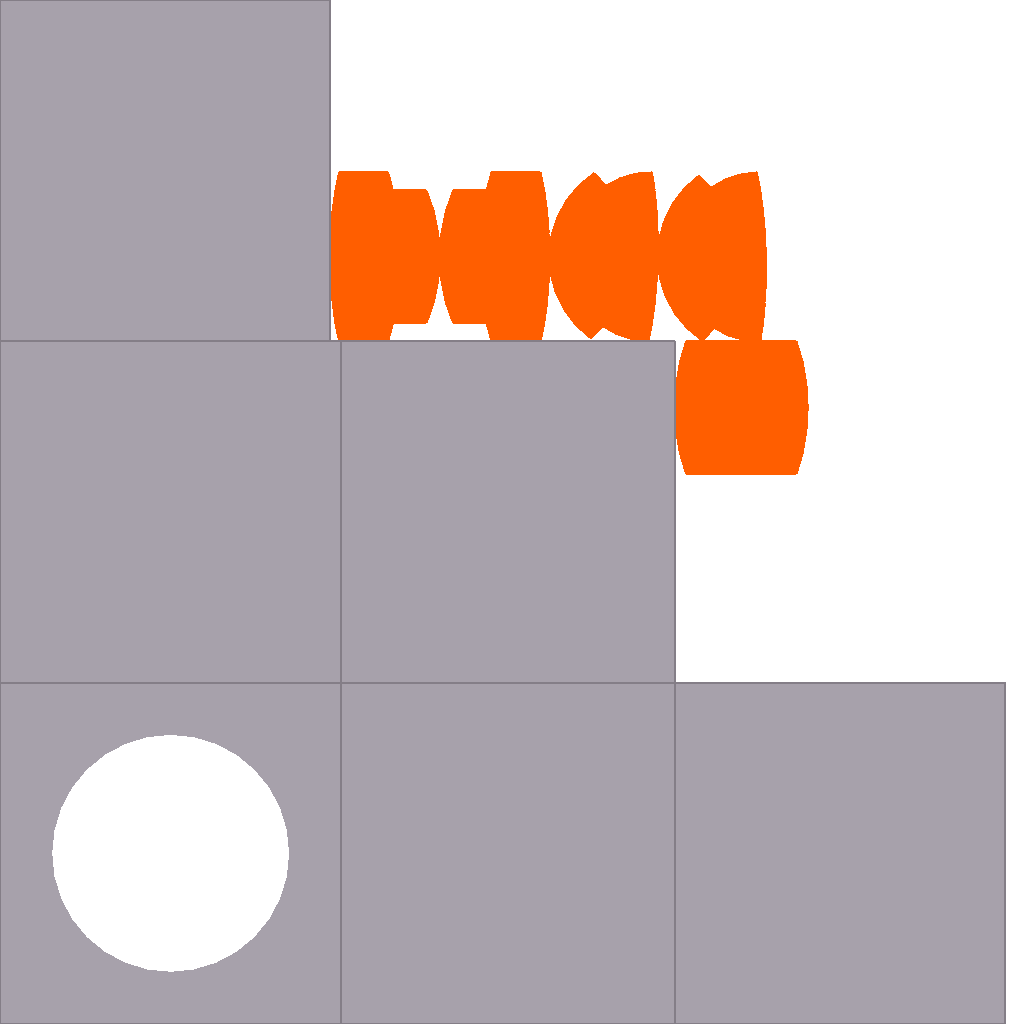
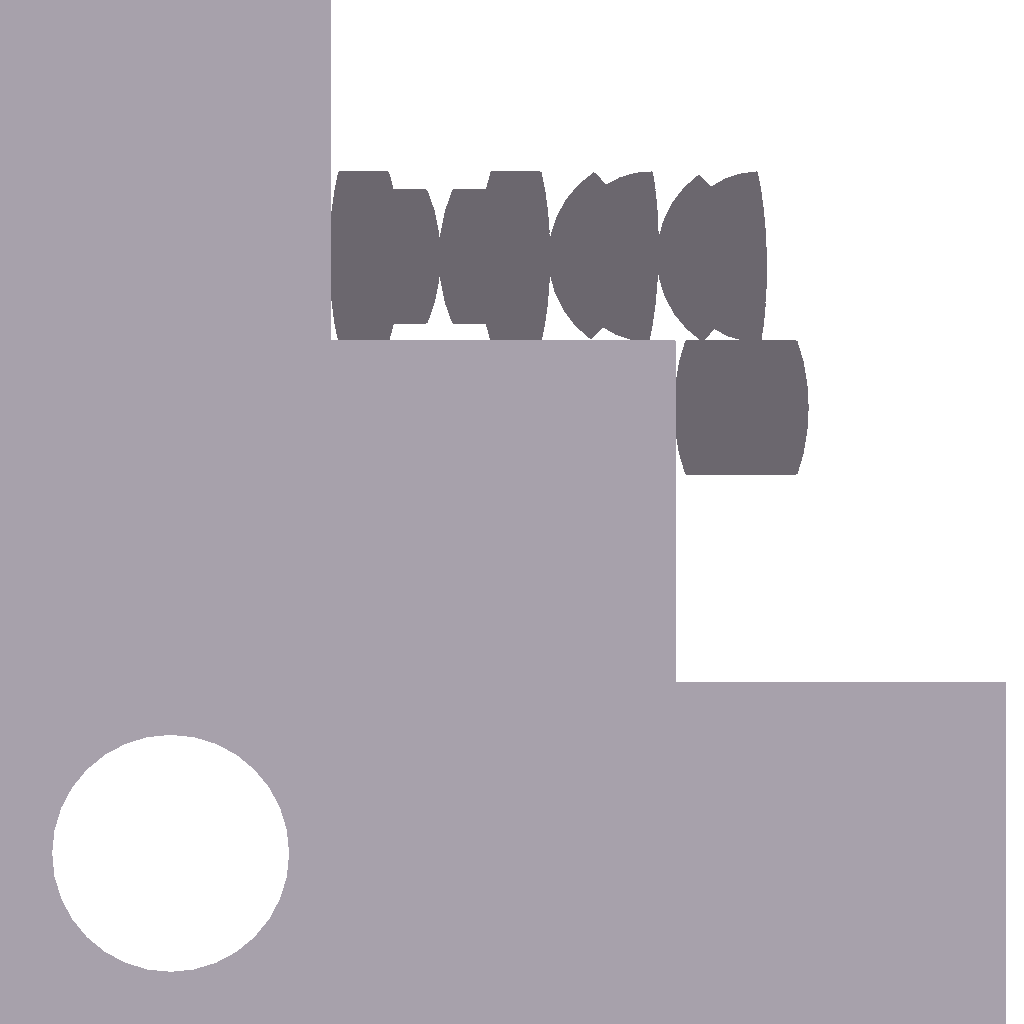
・ヒット時のカラーを変更できるように改良 ・ボスパーツのクラスを追加 ・ヒット時の処理を疑似的に追加 ・ファイル分け

Changed region(s): [[0.3125, 0.1562, 0.8125, 0.4688], [0.6562, 0.6562, 0.6875, 0.6875], [0.3125, 0.6562, 0.3438, 0.6875]]

diff --git a/GamePlay/GamePlay.cpp b/GamePlay/GamePlay.cpp
@@ -35,12 +35,22 @@ void GamePlay::Initialize()
 		return;
 	}
 
+	// スプライト
 	gameBG = Sprite::Create(TextureNumber::game_bg, { 0.0f,0.0f });
 
+	// パーティクル
+	bossHitParticle = ParticleManager::Create(dxCommon->GetDevice(), camera, 1, L"Resources/effect1.png");
+
+	// プレイヤー
 	player = Player::Create();
+
+	// スカイドーム
 	objSkydome = ObjObject::Create();
+
+	// ボス
 	boss = Boss::Create();
 	bossPartsRing = BossPartsRing::Create();
+	bossPartsSphere = BossPartsSphere::Create();
 	bossCore_1 = BossCore::Create();
 	bossCore_2 = BossCore::Create();
 	bossCore_3 = BossCore::Create();
@@ -60,51 +70,67 @@ void GamePlay::Initialize()
 	camera->SetUp({ 0, 1, 0 });
 	camera->SetDistance(20.0f);
 
+	// プレイヤー
 	player->SetPosition({ 0.0f,0.0f,0.0f });
 	player->SetRotation({ 0.0f, 0.0f, 0.0f });
 	player->SetScale({ 1.0f, 1.0f, 1.0f });
 
+	// ボスのベース
 	boss->SetPosition({ 0.0f,0.0f,0.0f });
 	boss->SetRotation({ 0.0f, 0.0f, 0.0f });
 	boss->SetScale({ 1.0f, 1.0f, 1.0f });
 
+	// ボスのリングパーツ
 	bossPartsRing->SetScale({ 4.0f, 4.0f, 4.0f });
 	bossPartsRing->SetParent(boss);
 
-	bossCore_1->SetPosition({ 0.0f , 0.0f, -1.3f });
-	bossCore_1->SetScale({ 0.2f, 0.2f, 0.2f });
-	bossCore_1->SetParent(bossPartsRing);
+	// ボスの球パーツ
+	bossPartsSphere->SetScale({ 4.2f, 4.2f, 4.2f });
+	bossPartsSphere->SetColor({ 0.2f, 0.2f, 0.2f, 1.0f });
+	bossPartsSphere->SetParent(boss);
 
-	bossCore_2->SetPosition({ 1.3f , 0.0f, 0.0f });
-	bossCore_2->SetScale({ 0.2f, 0.2f, 0.2f });
-	bossCore_2->SetParent(bossPartsRing);
-
-	bossCore_3->SetPosition({ 0.0f , 0.0f, 1.3f });
-	bossCore_3->SetScale({ 0.2f, 0.2f, 0.2f });
-	bossCore_3->SetParent(bossPartsRing);
-
-	bossCore_4->SetPosition({ -1.3f , 0.0f, 0.0f });
-	bossCore_4->SetScale({ 0.2f, 0.2f, 0.2f });
-	bossCore_4->SetParent(bossPartsRing);
-
-	bossCoreBox_1->SetPosition({ 0.0f , 0.0f, -1.0f });
-	bossCoreBox_1->SetRotation({0.0f, 180.0f, 0.0f});
+	// ボスのコアボックス1
+	bossCoreBox_1->SetPosition({ 0.0f , 0.0f, -1.2f });
+	bossCoreBox_1->SetRotation({ 0.0f, 180.0f, 0.0f });
 	bossCoreBox_1->SetScale({ 0.3f, 0.3f, 0.3f });
 	bossCoreBox_1->SetParent(bossPartsRing);
 
-	bossCoreBox_2->SetPosition({ 1.0f , 0.0f, 0.0f });
+	// ボスのコアボックス2
+	bossCoreBox_2->SetPosition({ 1.2f , 0.0f, 0.0f });
 	bossCoreBox_2->SetRotation({ 0.0f, 90.0f, 0.0f });
 	bossCoreBox_2->SetScale({ 0.3f, 0.3f, 0.3f });
 	bossCoreBox_2->SetParent(bossPartsRing);
 
-	bossCoreBox_3->SetPosition({ 0.0f , 0.0f, 1.0f });
+	// ボスのコアボックス3
+	bossCoreBox_3->SetPosition({ 0.0f , 0.0f, 1.2f });
 	bossCoreBox_3->SetScale({ 0.3f, 0.3f, 0.3f });
 	bossCoreBox_3->SetParent(bossPartsRing);
 
-	bossCoreBox_4->SetPosition({ -1.0f , 0.0f, 0.0f });
+	// ボスのコアボックス4
+	bossCoreBox_4->SetPosition({ -1.2f , 0.0f, 0.0f });
 	bossCoreBox_4->SetRotation({ 0.0f, 270.0f, 0.0f });
 	bossCoreBox_4->SetScale({ 0.3f, 0.3f, 0.3f });
 	bossCoreBox_4->SetParent(bossPartsRing);
+
+	// ボスのコア1
+	bossCore_1->SetPosition({ 0.0f , 0.0f, 1.0f });
+	bossCore_1->SetScale({ 0.7f, 0.7f, 0.7f });
+	bossCore_1->SetParent(bossCoreBox_1);
+
+	// ボスのコア2
+	bossCore_2->SetPosition({ 0.0f , 0.0f, 1.0f });
+	bossCore_2->SetScale({ 0.7f, 0.7f, 0.7f });
+	bossCore_2->SetParent(bossCoreBox_2);
+
+	// ボスのコア3
+	bossCore_3->SetPosition({ 0.0f , 0.0f, 1.0f });
+	bossCore_3->SetScale({ 0.7f, 0.7f, 0.7f });
+	bossCore_3->SetParent(bossCoreBox_3);
+
+	// ボスのコア4
+	bossCore_4->SetPosition({ 0.0f , 0.0f, 1.0f });
+	bossCore_4->SetScale({ 0.7f, 0.7f, 0.7f });
+	bossCore_4->SetParent(bossCoreBox_4);
 
 	objSkydome->SetPosition({ 0.0f, 0.0f, 0.0f });
 	objSkydome->SetRotation({ 0.0f,0.0f,0.0f, });
@@ -123,6 +149,39 @@ void GamePlay::Update()
 		SceneManager::GetInstance()->ChangeScene("RESULT");
 	}
 
+	// コア1の疑似ヒット処理
+	if (input->TriggerKey(DIK_U))
+	{
+		CreateBossHitParticles(boss->GetPosition());
+		bossCore_1->colorTimeRate = 0.0f;
+		bossCore_1->life--;
+	}
+
+	// コア2の疑似ヒット処理
+	if (input->TriggerKey(DIK_I))
+	{
+		CreateBossHitParticles(boss->GetPosition());
+		bossCore_2->colorTimeRate = 0.0f;
+		bossCore_2->life--;
+	}
+
+	// コア3の疑似ヒット処理
+	if (input->TriggerKey(DIK_O))
+	{
+		CreateBossHitParticles(boss->GetPosition());
+		bossCore_3->colorTimeRate = 0.0f;
+		bossCore_3->life--;
+	}
+
+	// コア4の疑似ヒット処理
+	if (input->TriggerKey(DIK_P))
+	{
+		CreateBossHitParticles(boss->GetPosition());
+		bossCore_4->colorTimeRate = 0.0f;
+		bossCore_4->life--;
+	}
+
+	// カメラターゲットのセット
 	camera->SetTarget(boss->GetPosition());
 
 	// カメラの更新
@@ -132,16 +191,20 @@ void GamePlay::Update()
 	player->Update();
 	boss->Update();
 	bossPartsRing->Update();
-	bossCore_1->Update();
-	bossCore_2->Update();
-	bossCore_3->Update();
-	bossCore_4->Update();
+	bossPartsSphere->Update();
 	bossCoreBox_1->Update();
 	bossCoreBox_2->Update();
 	bossCoreBox_3->Update();
 	bossCoreBox_4->Update();
+	bossCore_1->Update();
+	bossCore_2->Update();
+	bossCore_3->Update();
+	bossCore_4->Update();
 
 	objSkydome->Update();
+
+	// パーティクル更新
+	bossHitParticle->Update();
 }
 
 void GamePlay::Draw()
@@ -169,16 +232,41 @@ void GamePlay::Draw()
 
 	player->Draw();
 	boss->Draw();
-	bossPartsRing->Draw();
-	bossCore_1->Draw();
-	bossCore_2->Draw();
-	bossCore_3->Draw();
-	bossCore_4->Draw();
-	bossCoreBox_1->Draw();
-	bossCoreBox_2->Draw();
-	bossCoreBox_3->Draw();
-	bossCoreBox_4->Draw();
+
+	if (bossCore_1->isAlive || bossCore_2->isAlive || bossCore_3->isAlive || bossCore_4->isAlive)
+	{
+		bossPartsRing->Draw();
+		bossPartsSphere->Draw();
+		bossCoreBox_1->Draw();
+		bossCoreBox_2->Draw();
+		bossCoreBox_3->Draw();
+		bossCoreBox_4->Draw();
+	}
+
+	if (bossCore_1->isAlive)
+	{
+		bossCore_1->Draw();
+	}
+
+	if (bossCore_2->isAlive)
+	{
+		bossCore_2->Draw();
+	}
+
+	if (bossCore_3->isAlive)
+	{
+		bossCore_3->Draw();
+	}
+
+	if (bossCore_4->isAlive)
+	{
+		bossCore_4->Draw();
+	}
+
 	objSkydome->Draw();
+
+	// パーティクルの描画
+	bossHitParticle->Draw(cmdList);
 
 	// 3Dオブジェクト描画後処理
 	ObjObject::PostDraw();
@@ -193,4 +281,27 @@ void GamePlay::Draw()
 	// スプライト描画後処理
 	Sprite::PostDraw();
 #pragma endregion
+}
+
+void GamePlay::CreateBossHitParticles(XMFLOAT3 position)
+{
+	for (int i = 0; i < 10; i++) {
+		// X,Y,Z全て[-20.0f,+20.0f]でランダムに分布
+		const float rnd_pos = 1.0f;
+		XMFLOAT3 pos{};
+		pos.x = ((float)rand() / RAND_MAX * rnd_pos - rnd_pos / 2.0f) + position.x;
+		pos.y = ((float)rand() / RAND_MAX * rnd_pos - rnd_pos / 2.0f) + position.y;
+		pos.z = ((float)rand() / RAND_MAX * rnd_pos - rnd_pos / 2.0f) + position.z;
+
+		const float rnd_vel = 0.5f;
+		XMFLOAT3 vel{};
+		vel.x = (float)rand() / RAND_MAX * rnd_vel - rnd_vel / 2.0f;
+		vel.y = (float)rand() / RAND_MAX * rnd_vel - rnd_vel / 2.0f;
+		vel.z = (float)rand() / RAND_MAX * rnd_vel - rnd_vel / 2.0f;
+
+		XMFLOAT3 acc{};
+
+		// 追加
+		bossHitParticle->Add(40, pos, vel, acc, { 1.0f,0.1f, 0.1f, 1.0f }, { 1.0f,0.1f, 0.1f, 1.0f }, 2.0f, 0.0f);
+	}
 }

diff --git a/GamePlay/GamePlay.h b/GamePlay/GamePlay.h
@@ -19,6 +19,7 @@
 #include "Bullet.h"
 #include "Boss.h"
 #include "BossPartsRing.h"
+#include "BossPartsSphere.h"
 #include "BossCore.h"
 #include "BossPartsCoreBox.h"
 #include "TargetBullet.h"
@@ -47,6 +48,7 @@ class BossBullet;
 class TargetBullet;
 class StageObject;
 class BossPartsRing;
+class BossPartsSphere;
 class BossCore;
 class BossPartsCoreBox;
 
@@ -90,6 +92,9 @@ public: // メンバ関数
 	// 描画
 	void Draw() override;
 
+	// 弾が当たった際のパーティクル生成
+	void CreateBossHitParticles(XMFLOAT3 position);
+
 private: // メンバ変数
 	DirectXCommon* dxCommon = DirectXCommon::GetInstance();
 	Input* input = Input::GetInstance();
@@ -98,6 +103,8 @@ private: // メンバ変数
 	
 	Camera* camera = nullptr;
 
+	ParticleManager* bossHitParticle = nullptr;
+
 	Sprite* gameBG = nullptr;
 	
 	ObjModel* modelSkydome = nullptr;
@@ -105,6 +112,7 @@ private: // メンバ変数
 	Player* player = nullptr;
 	Boss* boss = nullptr;
 	BossPartsRing* bossPartsRing = nullptr;
+	BossPartsSphere* bossPartsSphere = nullptr;
 	BossCore* bossCore_1 = nullptr;
 	BossCore* bossCore_2 = nullptr;
 	BossCore* bossCore_3 = nullptr;

diff --git a/OBJ/ObjObject.h b/OBJ/ObjObject.h
@@ -39,6 +39,7 @@ public: // サブクラス
 	// 定数バッファ用データ構造体B0
 	struct ConstBufferDataB0
 	{
+		XMFLOAT4 color;		//色
 		XMMATRIX mat;	// ３Ｄ変換行列
 	};
 
@@ -104,6 +105,9 @@ public: // メンバ関数
 	// 座標の取得
 	const XMFLOAT3& GetRotation() { return rotation; }
 
+	// 色の取得
+	const XMFLOAT4& GetColor() { return color; }
+
 
 	// 座標の設定
 	void SetPosition(XMFLOAT3 position) { this->position = position; }
@@ -113,6 +117,9 @@ public: // メンバ関数
 
 	// スケールの設定
 	void SetScale(XMFLOAT3 scale) { this->scale = scale; }
+
+	// 色の設定
+	void SetColor(const XMFLOAT4& color) { this->color = color; }
 
 	// モデルのセット
  	void SetModel(ObjModel* model) { this->model = model; }

diff --git a/Math/Lerp.cpp b/Math/Lerp.cpp
@@ -23,3 +23,14 @@ XMFLOAT3 Lerp::LerpFloat3(const XMFLOAT3& start, const XMFLOAT3& end, const floa
 	position = XMFLOAT3(A.x + B.x, A.y + B.y, A.z + B.z);
 	return position;
 }
+
+XMFLOAT4 Lerp::LerpFloat4(const XMFLOAT4& start, const XMFLOAT4& end, const float time)
+{
+	XMFLOAT4 A, B;
+	A = XMFLOAT4(start.x * (1.0f - time), start.y * (1.0f - time), start.z * (1.0f - time), start.w * (1.0f - time));
+	B = XMFLOAT4(end.x * time, end.y * time, end.z * time, end.w * time);
+
+	XMFLOAT4 position;
+	position = XMFLOAT4(A.x + B.x, A.y + B.y, A.z + B.z, A.w + B.w);
+	return position;
+}

diff --git a/OBJ/ObjObject.cpp b/OBJ/ObjObject.cpp
@@ -318,6 +318,7 @@ void ObjObject::Update()
 	// 定数バッファへデータ転送
 	ConstBufferDataB0* constMap = nullptr;
 	result = constBuffB0->Map(0, nullptr, (void**)&constMap);
+	constMap->color = color;
 	constMap->mat = matWorld * matViewProjection;	// 行列の合成
 	constBuffB0->Unmap(0, nullptr);
 
